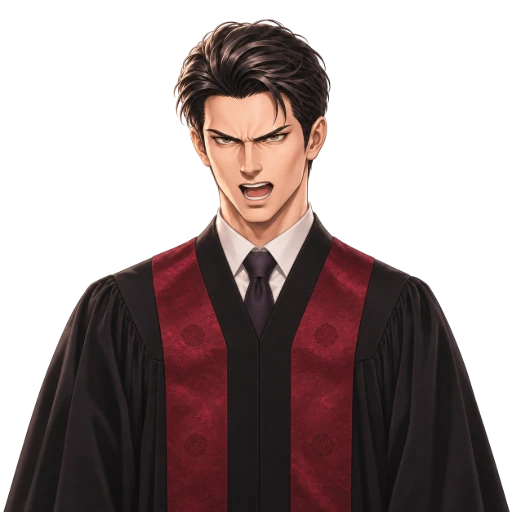
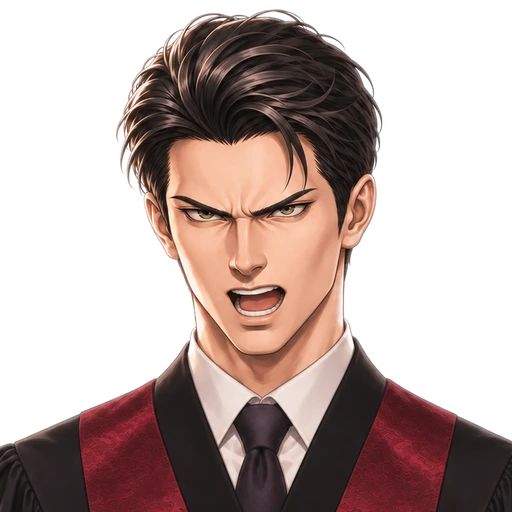
검사 얼굴 확대, 여주 1장 검사 구형 문장 수정
- 법정 칸·대화 장면의 검사 그림을 얼굴 가까이 다시 자름
- 여주 1장 구형: 휴게실 앞 55분 동안 상자를 절취했다고 직접 주장

diff --git a/story.html b/story.html
@@ -2100,7 +2100,7 @@ CH.f1 = { hero: "f", tags: G => [G.doneIds.pot && "pot", G.doneIds.sold && "sold
     F(G => G.confessed && !G.flags.denyoath, [S("pros", "피고인이 진술을 거부하므로 피고인신문은 이것으로 마치겠습니다.")]),
     F(G => !G.confessed, [S("pros", "이상입니다.")]),
     S("judge", "피고인신문을 마치겠습니다. 검사, 의견 진술하십시오."),
-    S("pros", "상차 스캔부터 분실 처리까지 상자를 가지고 있던 사람은 피고인뿐이고, 피고인은 그 사이 휴게실 앞에 55분 동안 서 있었습니다. 피고인에게 약식명령과 같은 벌금 300만 원을 선고해 주시기 바랍니다."),
+    S("pros", "상차 스캔부터 분실 처리까지 상자를 가지고 있던 사람은 피고인뿐입니다. 피고인은 휴게실 앞에 55분간 서 있는 동안 상자를 절취한 것으로 보입니다. 피고인에게 약식명령과 같은 벌금 300만 원을 선고해 주시기 바랍니다."),
     S("judge", "변호인, 최종변론하십시오."),
     C("최종변론에서 무엇을 주장할까?", [["입증이 부족하므로 무죄를 선고해 달라고 주장|물건은 발견되지 않았고, 피고인이 상자를 가져갔다는 증명이 없습니다.", 6, "", "judge", "잘 들었습니다."], ["다른 사람이 훔쳐 갔다고 주장|피고인은 상자에 손댄 적이 없습니다. 상자는 상하차장에서 없어졌습니다.", -12, "false", "pros", "앱 기록에는 피고인의 차가 휴게실 앞에 55분 동안 서 있었고, 그 사이 14시에 분실 처리를 한 것으로 나옵니다."]]),
     S("judge", "피고인, 마지막으로 하실 말씀이 있습니까?"),

diff --git a/sw.js b/sw.js
@@ -2,7 +2,7 @@
 // 앱(화면 파일)은 배포할 때마다 새 판으로 바꾸고, 그림(assets/)은 버전과 상관없는 따로 된 저장소에 둔다.
 // 그래서 배포해도 이미 받은 그림은 다시 받지 않는다. 그림은 저장해 둔 것을 바로 보여 주고, 뒤에서 바뀌었는지만 확인한다.
 // 같은 이름의 그림을 다시 그려 바꿨을 때도 다음 실행부터 새 그림이 보인다(뒤에서 확인한 결과).
-const CACHE = "truth-v1796400000000";
+const CACHE = "truth-v1796410000000";
 const IMG = "truth-img-3";
 // 음악(bgm/)도 그림처럼 버전과 상관없는 저장소에 둔다. 처음 들을 때는 인터넷으로 바로 틀고, 뒤에서 곡 전체를 받아 저장한다.
 // 저장된 뒤에는 저장한 곡에서 필요한 부분(Range)을 잘라 준다. 그래서 데이터가 끊겨도 음악이 멈추지 않는다
